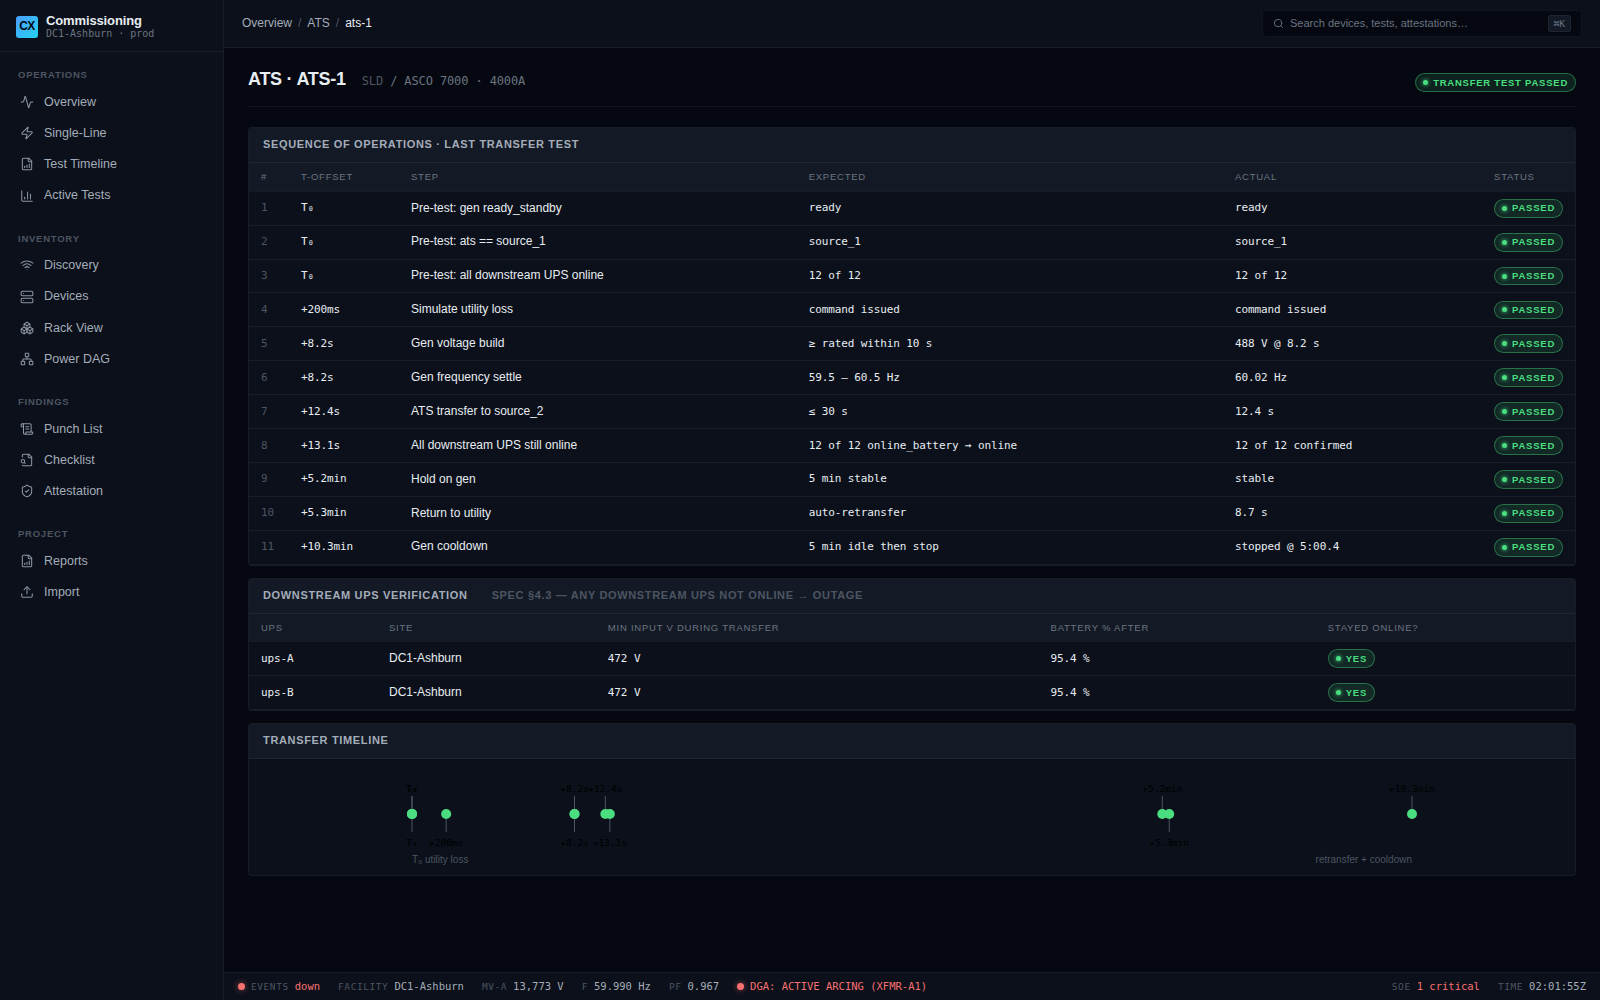
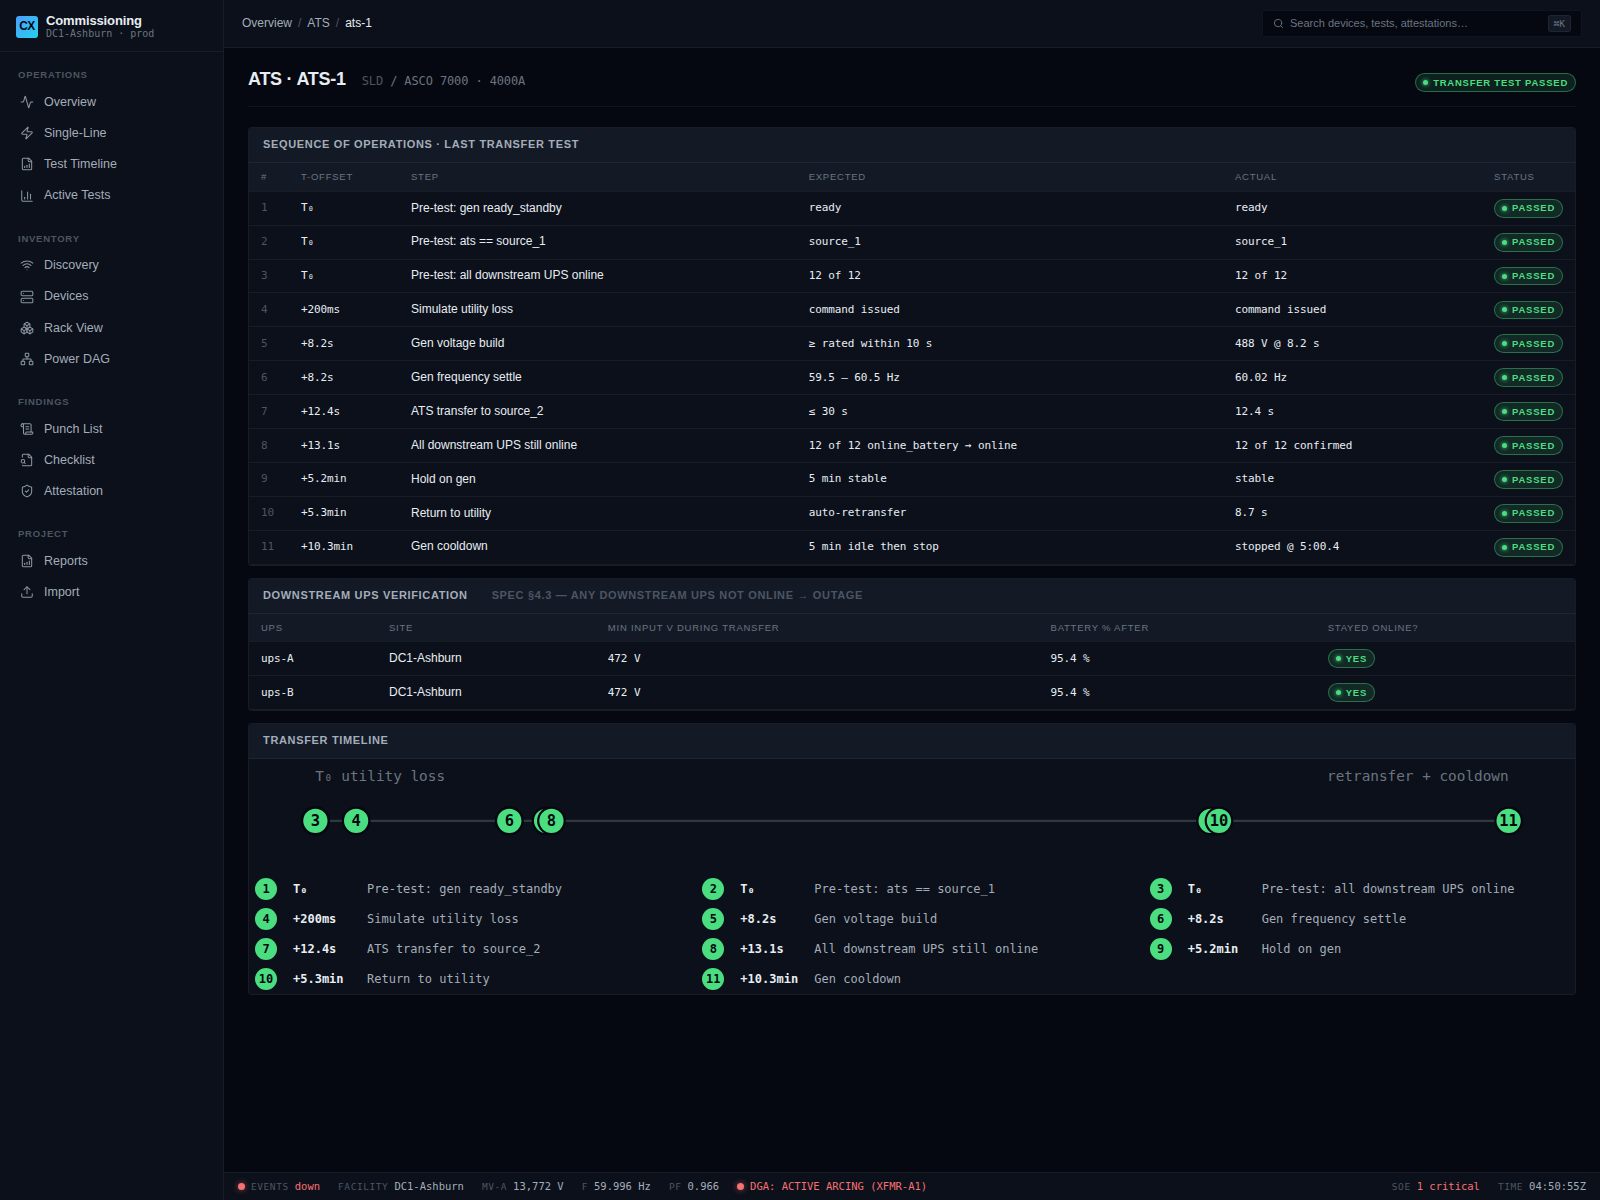
ATS transfer timeline: replace overlapping labels with axis + legend grid
The horizontal timeline crammed step labels above and below a single axis,
which caused unreadable overlap when steps clustered (T₀ pre-tests, +8s
gen build, +5min hold/return). Now the SVG only carries numbered dots and
endpoint labels; step time + name are listed in a 3-column legend grid
beneath, keyed by the dot number.

diff --git a/frontend/src/pages/AtsConsole.jsx b/frontend/src/pages/AtsConsole.jsx
@@ -122,37 +122,49 @@ function formatT(ms) {
 }
 
 function TransferTimeline({ sequence }) {
-  const W = 1100, H = 110;
-  const padX = 50;
+  const W = 1200, H = 90;
+  const padX = 60;
+  const axisY = 56;
   const totalMs = Math.max(1, sequence[sequence.length - 1].t_offset_ms);
-  // Use a log-style scale so early-millisecond steps don't get squashed
   const xFor = (ms) => padX + Math.pow(ms / totalMs, 0.42) * (W - 2 * padX);
+
   return (
-    <svg viewBox={`0 0 ${W} ${H}`} width="100%" height={H}>
-      {/* Axis */}
-      <line x1={padX} y1={H / 2} x2={W - padX} y2={H / 2}
-            stroke="var(--border)" strokeWidth="2" />
-      {sequence.map((s, i) => {
-        const x = xFor(s.t_offset_ms);
-        const above = i % 2 === 0;
-        return (
-          <g key={i}>
-            <line x1={x} y1={H / 2} x2={x} y2={above ? H / 2 - 18 : H / 2 + 18}
-                  stroke="var(--text-faint)" strokeWidth="1" />
-            <circle cx={x} cy={H / 2} r="5"
-                    fill={s.passed ? "var(--pass)" : "var(--fail)"} />
-            <text x={x} y={above ? H / 2 - 22 : H / 2 + 32}
-                  fontSize="9.5" fill="var(--text)"
-                  textAnchor="middle" fontFamily="monospace">
-              {formatT(s.t_offset_ms)}
-            </text>
-          </g>
-        );
-      })}
-      <text x={padX} y={H - 6} fontSize="10" fill="var(--text-faint)">T₀ utility loss</text>
-      <text x={W - padX} y={H - 6} fontSize="10" fill="var(--text-faint)" textAnchor="end">
-        retransfer + cooldown
-      </text>
-    </svg>
+    <div>
+      <svg viewBox={`0 0 ${W} ${H}`} width="100%" preserveAspectRatio="xMidYMid meet">
+        <line x1={padX} y1={axisY} x2={W - padX} y2={axisY}
+              stroke="var(--border-strong)" strokeWidth="2" />
+        <text x={padX} y={20} fontSize="13" fill="var(--text-tertiary)"
+              fontFamily="var(--font-mono)">
+          T₀ utility loss
+        </text>
+        <text x={W - padX} y={20} fontSize="13" fill="var(--text-tertiary)"
+              fontFamily="var(--font-mono)" textAnchor="end">
+          retransfer + cooldown
+        </text>
+        {sequence.map((s, i) => {
+          const x = xFor(s.t_offset_ms);
+          return (
+            <g key={i}>
+              <circle cx={x} cy={axisY} r="12"
+                      fill={s.passed ? "var(--pass)" : "var(--fail)"}
+                      stroke="var(--bg-base)" strokeWidth="2" />
+              <text x={x} y={axisY + 5} fontSize="14" fill="var(--text-inverse)"
+                    textAnchor="middle" fontFamily="var(--font-mono)" fontWeight="700">
+                {i + 1}
+              </text>
+            </g>
+          );
+        })}
+      </svg>
+      <div className="timeline-legend">
+        {sequence.map((s, i) => (
+          <div key={i} className="timeline-legend-row">
+            <span className={s.passed ? "tl-num pass" : "tl-num fail"}>{i + 1}</span>
+            <span className="tl-time">{formatT(s.t_offset_ms)}</span>
+            <span className="tl-step">{s.step || s.name || ""}</span>
+          </div>
+        ))}
+      </div>
+    </div>
   );
 }

diff --git a/frontend/src/styles.css b/frontend/src/styles.css
@@ -985,3 +985,37 @@ select {
 .hmi-gauge    { font-size: 9px;  fill: var(--text-primary); font-weight: 700; font-variant-numeric: tabular-nums; }
 .hmi-btn      { font-size: 10px; fill: var(--text-primary); font-weight: 700; }
 .hmi-alarm    { font-size: 10px; fill: var(--fail); font-weight: 700; letter-spacing: 0.04em; }
+
+/* Transfer-timeline legend (ATS console) */
+.timeline-legend {
+  display: grid;
+  grid-template-columns: repeat(2, 1fr);
+  gap: 8px 28px;
+  padding: 14px 6px 4px;
+}
+.timeline-legend-row {
+  display: grid;
+  grid-template-columns: 28px 64px 1fr;
+  align-items: center;
+  gap: 10px;
+  font-family: var(--font-mono);
+  font-size: 12px;
+  color: var(--text-secondary);
+}
+.tl-num {
+  display: inline-flex;
+  align-items: center;
+  justify-content: center;
+  width: 22px;
+  height: 22px;
+  border-radius: 50%;
+  font-weight: 700;
+  color: var(--text-inverse);
+}
+.tl-num.pass { background: var(--pass); }
+.tl-num.fail { background: var(--fail); }
+.tl-time { color: var(--text-primary); font-weight: 600; }
+.tl-step { color: var(--text-secondary); }
+@media (min-width: 1100px) {
+  .timeline-legend { grid-template-columns: repeat(3, 1fr); }
+}

diff --git a/scripts/screenshot_ats.py b/scripts/screenshot_ats.py
@@ -1,0 +1,24 @@
+"""Re-screenshot the ATS console after the timeline legibility fix."""
+import asyncio, os
+from pathlib import Path
+from playwright.async_api import async_playwright
+
+OUT = Path(__file__).resolve().parent.parent / "screenshots"
+
+async def main():
+    os.environ.setdefault("PLAYWRIGHT_BROWSERS_PATH", "/opt/pw-browsers")
+    async with async_playwright() as p:
+        browser = await p.chromium.launch(headless=True, args=["--no-sandbox"])
+        ctx = await browser.new_context(viewport={"width": 1600, "height": 1200})
+        await ctx.add_init_script("try{localStorage.setItem('api_key','demo')}catch(e){}")
+        page = await ctx.new_page()
+        await page.goto("http://localhost:8080/ats/ats-1", wait_until="networkidle", timeout=20000)
+        await page.wait_for_timeout(1500)
+        await page.screenshot(path=str(OUT / "08-ats.png"), full_page=True)
+        # Crop just the timeline card for a focused view
+        card = page.locator("text=Transfer timeline").locator("xpath=ancestor::*[contains(@class,'card')][1]")
+        await card.screenshot(path=str(OUT / "26-ats-transfer-timeline.png"))
+        await browser.close()
+        print("done")
+
+asyncio.run(main())
